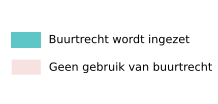
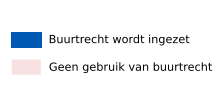
stable 1.5

Changed region(s): [[0.0275, 0.2885, 0.1927, 0.4615]]

diff --git a/app/views/main.html b/app/views/main.html
@@ -17,7 +17,6 @@
         <div class="container-fluid">
             <hr>
             <div class="row">
-
                 <div class="col-md-5" id="viewgem">
                     <div class="panel panel-default">
                         <div class="panel-heading">
@@ -27,12 +26,10 @@
                             {{option.label}}
                             <a class="small" ng-href="{{option.url}}" ng-bind="option.url"></a>
                         </script>
-
                         <script type="text/ng-template" id="selector/demo/browserWithIcon">
                             <img ng-src="{{option.icon}}">
                             {{option.label}}
                         </script>
-
                         <div class="panel-body">
                             <h4>Selectie buurtrecht</h4>
                             <select selector model="main.mappselect" change="main.onMapChange(newValue, oldValue)" options="main.mapps" value-attr="code" dropdown-item-template="'selector/demo/browserWithIcon'"></select>
@@ -45,16 +42,17 @@
                 <div>{{gemeente.value | number}}</div>
               </div>
             </div>-->
-
                             <h4>Zoeken op gemeente</h4>
                             <select selector change="main.onChangeFromList(newValue, oldValue)" model="main.currentgemeente" options="main.gemeenten" value-attr="value"></select>
                             <div style="float:right">
                                 {{main.hovergemeente}}
                             </div>
                             <hr>
-
                         </div>
 
+                        <div style='padding:20px;padding-top:0px'>
+                            <h5>{{main.starttekst}}</h5>
+                        </div>
                         <div ng-if='main.instrumentenbuurtrechten'>
                             <table ng-table="main.tableParams" class="table" show-filter="true">
                                 <tr ng-repeat="user in $data">
@@ -64,9 +62,8 @@
                                 </tr>
                             </table>
                         </div>
+                        <div style='padding:20px;padding-top:-20px'>
 
-                        <div style='padding:20px;padding-top:0px'>
-                            <h4>{{main.starttekst}}</h4>
                             <h2>{{main.curcur}}</h2>
                             <div ng-if="main.instrus.length">
                                 <h4>Instrumenten die worden ingezet:</h4>
@@ -74,17 +71,23 @@
                                     <a ng-click="main.showInstru(instr.id)" href="" scroll-to="#totop" offset="0" container="html, body">{{instr.name}}</a>
                                 </div>
                             </div>
-                            <p>
-                                <div style="height:200px;" ng-bind-html="main.currentwysig" data-ellipsis data-ellipsis-append="<a>Lees meer</a>" data-ellipsis-append-click="main.showFullText()"></div>
-                            </p><hr>
-                            <hr>
                             <div ng-if="main.images.length">
                                 <h4>Afbeeldingen</h4>
                                 <ng-image-gallery images="main.images" thumbnails="true" inline="false" img-bubbles="true" bg-close="true" bubbles="true"></ng-image-gallery>
                             </div>
+                            <p>
+                                <div ng-show="main.textshort" style="height:200px;" ng-bind-html="main.currentwysig" data-ellipsis data-ellipsis-append="<a>Lees meer</a>" data-ellipsis-append-click="main.showFullText()"></div>
+                            </p><hr>
+                            <div ng-show="main.linkieshow">
+                                <h5 class="attachment-heading">
+                                    <b>Link:
+                                    </b><br>http://edtestic.nl/lsamap#?gemeente={{main.curcur}}
+                                </h5>
+                            </div>
+
+                            <hr>
 
                         </div>
-
                     </div>
                 </div>
                 <div class="col-md-7">
@@ -125,6 +128,40 @@
                             </div>
                         </div>
                     </div>
+                    <div id="detailview">
+                      <div ng-show="main.detailpage">
+                          <div class="row" style="margin-top:20px !important">
+                              <div class="col-md-12">
+                                  <div class="box box-widget">
+                                      <div class="box-header with-border">
+                                          <div class="user-block"></div>
+                                          <div class="box-tools">
+                                              <button type="button" ng-click="main.hideDetail()">
+                                                  <i>Sluit/Terug naar kaart</i>
+                                              </button>
+
+                                          </div>
+                                      </div>
+                                      <div class="box-body">
+                                          <div ng-bind-html="main.currentwysig"></div>
+                                          <div class="attachment-block clearfix">
+                                              <div class="attachment-pushed">
+                                                  <h4 class="attachment-heading">
+                                                      http://edtestic.nl/lsamap#?gemeente={{main.curcur}}
+                                                  </h4>
+                                              </div>
+                                          </div>
+                                      </div>
+
+                                      <div class="box-footer">
+                                          <h5>__</h5>
+                                      </div>
+                                  </div>
+                              </div>
+                          </div>
+                      </div>
+                    </div>
+
 
                     <div ng-show="main.loadingnow">
                         <h3>{{main.loadingtext}}</h3>
@@ -174,7 +211,7 @@
                         <div class="thumbnail">
                             <div class="caption">
                                 <h3>Willekeurig instrument
-                                    <a href="#" style="float:right" class="btn btn-primary">></a>
+                                    <a ng-click="main.nextrandominstru()" style="float:right" class="btn btn-primary">></a>
                                 </h3>
 
                                 <ul class="media-list main-list">

diff --git a/app/scripts/controllers/main.js b/app/scripts/controllers/main.js
@@ -10,7 +10,7 @@
  * Controller of the lsamapApp
  */
 angular.module('lsamapApp')
-    .controller('MainCtrl', function($scope, $rootScope, NgTableParams, $timeout, $http, $sce, $route, apis, $routeParams) {
+    .controller('MainCtrl', function($scope, $rootScope, $window, NgTableParams, $anchorScroll, $timeout, $http, $sce, $route, apis, $routeParams) {
 
         // try to take routing
         //this.keyyy = $location.url();
@@ -29,6 +29,10 @@ angular.module('lsamapApp')
 
         this.mappselect = [apis.currentMap];
 
+        this.detailpage = false;
+        this.textshort = true;
+
+
         this.mapps = [{
             code: 0,
             label: "Geheel overzicht",
@@ -36,27 +40,27 @@ angular.module('lsamapApp')
         }, {
             code: 1,
             label: "Beheer van voorzieningen",
-            icon: "images/smallicons/small1.png"
+            icon: "images/smallicons/small2.png"
         }, {
             code: 2,
             label: "Toegang tot geld",
-            icon: "images/smallicons/small2.png"
+            icon: "images/smallicons/small3.png"
         }, {
             code: 3,
             label: "Open Overheid",
-            icon: "images/smallicons/small3.png"
+            icon: "images/smallicons/small5.png"
         }, {
             code: 4,
             label: "Zelfgekozen ondersteuning",
-            icon: "images/smallicons/small4.png"
+            icon: "images/smallicons/small6.png"
         }, {
             code: 5,
             label: "Maatschappelijk aanbesteden",
-            icon: "images/smallicons/small5.png"
+            icon: "images/smallicons/small4.png"
         }, {
             code: 6,
             label: "Plannen voor de buurt",
-            icon: "images/smallicons/small6.png"
+            icon: "images/smallicons/small1.png"
         }];
 
 
@@ -109,7 +113,7 @@ angular.module('lsamapApp')
             //self.apiResp = "chck";
 
             // TODO assign the random values and last editted set everything up
-            var rand = self.instrumenten[Math.floor(Math.random() * self.instrumenten.length)];
+
 
 
 
@@ -129,6 +133,14 @@ angular.module('lsamapApp')
                 }
             }
 
+            if (apis.currentMap === 0) {
+                self.instrumentenbuurtrechten = null;
+            } else {
+                self.starttekst = "Klik op een gemeente/Gebruik de zoekbalk hierboven voor verdere informatie. Je kunt ook hieronder door instrumenten zoeken die horen bij dit buurtrecht";
+            }
+
+            self.linkieshow = false;
+
 
             console.log(self.instrumenten);
             console.log(self.instrumentenbuurtrechten);
@@ -143,7 +155,7 @@ angular.module('lsamapApp')
 
 
 
-
+            var rand = self.instrumenten[Math.floor(Math.random() * self.instrumenten.length)];
             // Get the Random one
             self.randinstrumentnaam = rand.name;
             var ranwysigin = rand.wysig;
@@ -346,9 +358,7 @@ angular.module('lsamapApp')
         // NOTE FUNCTIONS FROM SELF/CONTROLLER
 
 
-        this.showFullText = function() {
-            console.log("show more text!");
-        }
+
 
 
         this.setMap = function(whichmap) {
@@ -380,6 +390,8 @@ angular.module('lsamapApp')
         // gets also the new and the oldvalue-
         // NOTE NOTE this one is called when value is changed
         this.onChangeFromList = function(newValue, oldValue) {
+            self.instrumentenbuurtrechten = null;
+            self.linkieshow = true;
             //console.log("Hoe vaak!");
             this.starttekst = "";
             if (newValue) {
@@ -492,6 +504,7 @@ angular.module('lsamapApp')
             this.loadingtext = "";
             this.instruview = true;
             this.loadingnow = true;
+            this.detailpage = false;
         }
 
         this.hideInstru = function() {
@@ -500,7 +513,32 @@ angular.module('lsamapApp')
             this.loadingnow = false;
         };
 
+        this.hideDetail = function() {
+            this.loadingtext = "Laden..";
+            this.detailpage = false;
+            this.loadingnow = false;
+            self.textshort = true;
+            self.linkieshow = true;
+        };
 
+        this.showFullText = function() {
+            self.linkieshow = false;
+            self.textshort = false;
+            console.log("show more text!");
+            self.loadingnow = true;
+            self.detailpage = true;
+            self.instruview = false;
+            $window.scrollTo(0, 50);
+        }
+
+        this.nextrandominstru = function() {
+            var rand = self.instrumenten[Math.floor(Math.random() * self.instrumenten.length)];
+            // Get the Random one
+            self.randinstrumentnaam = rand.name;
+            var ranwysigin = rand.wysig;
+            self.randinstrumentwysig = $sce.trustAsHtml(ranwysigin);
+            self.randinstrumentgemeenten = rand.gemeentenlink;
+        }
 
 
     });

diff --git a/app/scripts/app.js b/app/scripts/app.js
@@ -282,30 +282,30 @@ var app = angular
         }
     }]).filter('map_coloursec', [function() {
         return function(input) {
-            return "rgba(248, 225, 225, 1)";
+            return "RGB(255, 245, 245)";
         }
     }]).filter('map_colour6', [function() {
         return function(input) {
-            return "rgba(20, 103, 99, 1)";
+            return "RGB(0, 13, 25)";
         }
     }]).filter('map_colour5', [function() {
         return function(input) {
-            return "rgba(27, 154, 148, 1)";
+            return "RGB(0, 51, 102)";
         }
     }]).filter('map_colour4', [function() {
         return function(input) {
-            return "rgba(96, 198, 198, 1)";
+            return "RGB(0, 90, 179)";
         }
     }]).filter('map_colour3', [function() {
         return function(input) {
-            return "rgba(140, 211, 213, 1)";
+            return "RGB(0, 128, 255)";
         }
     }]).filter('map_colour2', [function() {
         return function(input) {
-            return "rgba(191, 229, 230, 1)";
+            return "RGB(77, 166, 255)";
         }
     }]).filter('map_colour1', [function() {
         return function(input) {
-            return "rgba(223, 242, 243, 1)";
+            return "RGB(153, 204, 255)";
         }
     }]);

diff --git a/app/index.html b/app/index.html
@@ -52,12 +52,7 @@
                         <li>
                             <a ng-href="#about" class="visible-xs" data-toggle="collapse" data-target=".navbar-collapse">Over</a>
                         </li>
-                        <li>
-                            <a ng-href="#/minad" class="hidden-xs">*</a>
-                        </li>
-                        <li>
-                            <a ng-href="#/minad" class="visible-xs" data-toggle="collapse" data-target=".navbar-collapse">*</a>
-                        </li>
+                      
                     </ul>
                 </div>
             </div>

diff --git a/app/scripts/controllers/minad.js b/app/scripts/controllers/minad.js
@@ -74,8 +74,10 @@ angular.module('lsamapApp')
         this.inlogger = function() {
             // NOTE new nd secure
             apis.pwd = this.userpw;
+            self.wrongpwtext = "Controleren...";
             // AUTH WORKS
             apis.getIpa().then(function(dataResponse) {
+              self.wrongpwtext = "Checking...";
                 var check = dataResponse.data;
                 console.log(check);
                 if (check !== "reject") {

diff --git a/app/styles/boot.scss b/app/styles/boot.scss
@@ -1095,7 +1095,7 @@ body {
   font-size: 15px;
   line-height: 1.42857143;
   color: #333333;
-  background-color: #f5f5f5;
+  background-color: #fff;
 }
 input,
 button,
